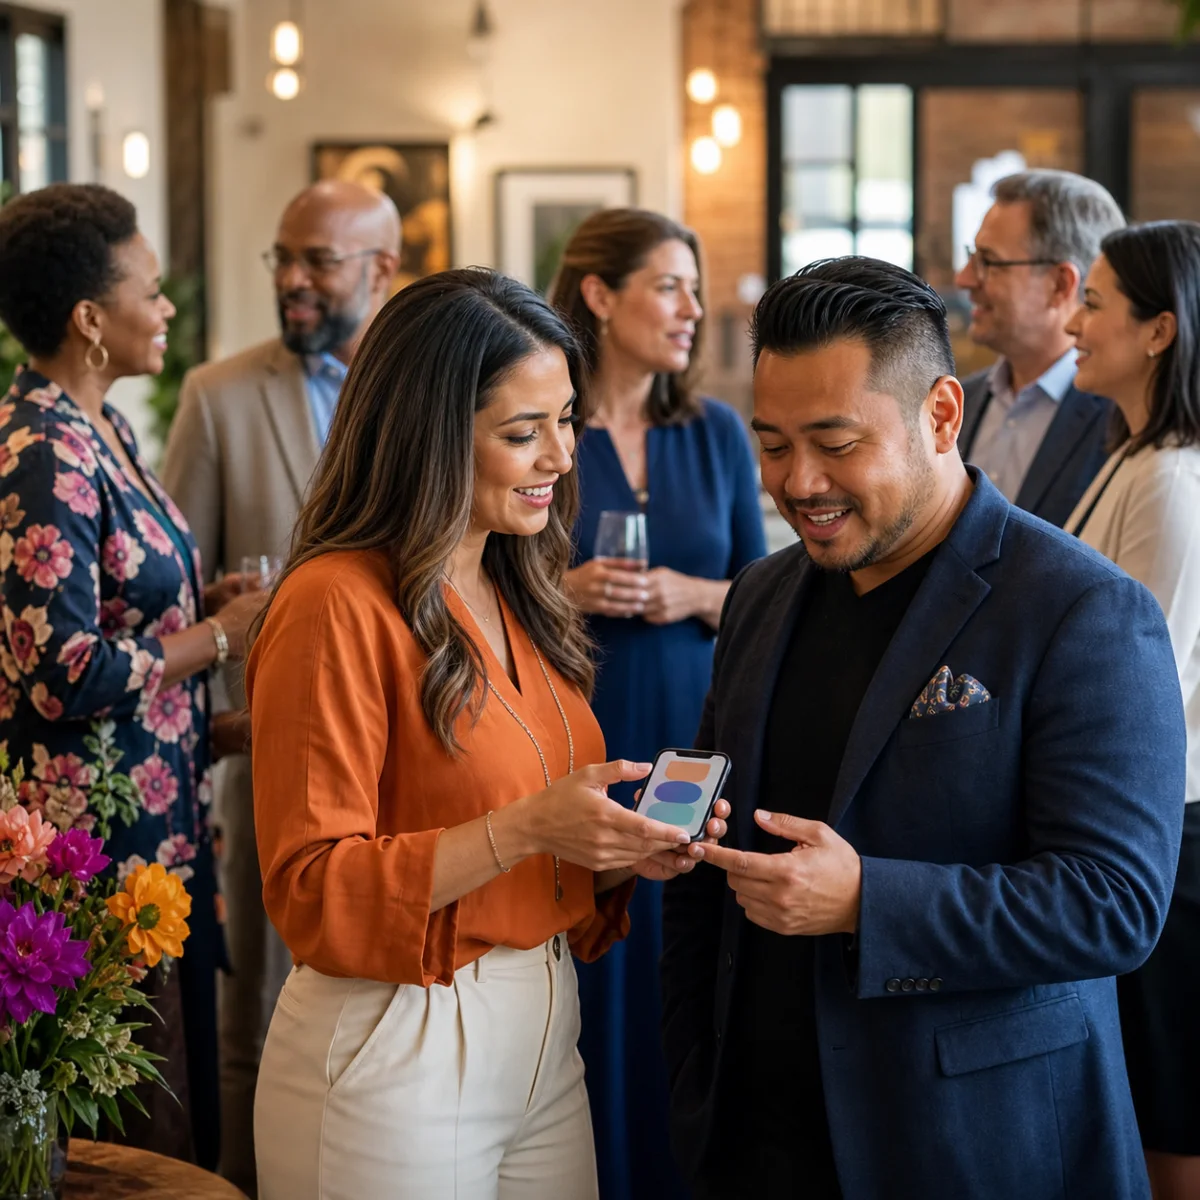
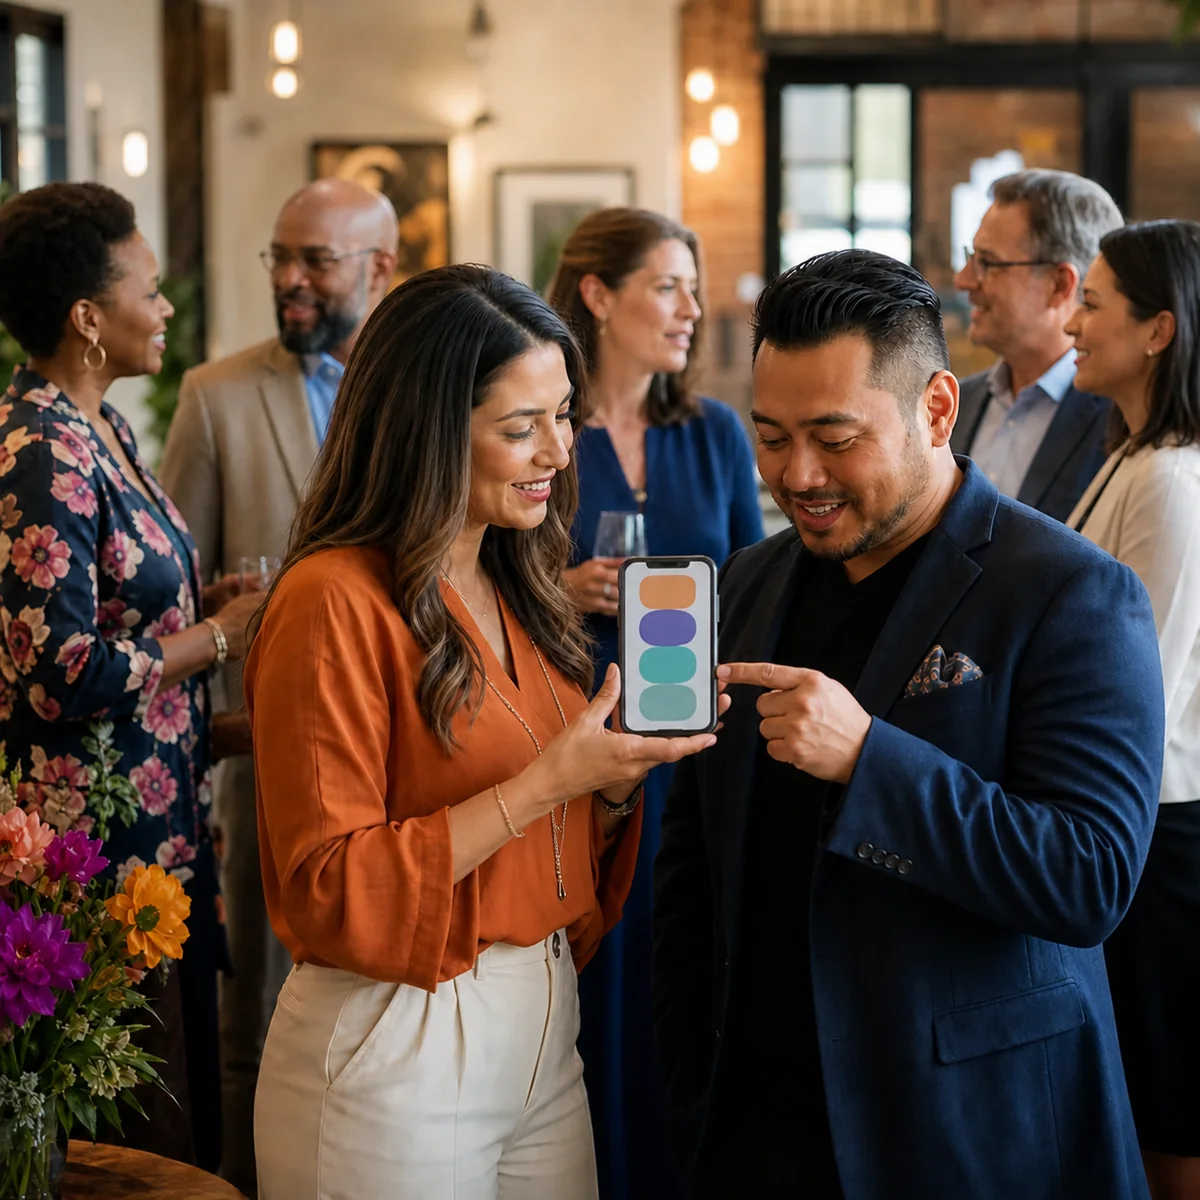
Fix PTBN cover interaction

diff --git a/design-qa.md b/design-qa.md
@@ -76,4 +76,14 @@ After the in-app Browser outage was established, Chrome was authorized as the fa
 - Responsive and accessibility checks: both viewports reported `documentElement.scrollWidth === innerWidth`; the hero SVG exposes the updated label; browser diagnostics contained no warnings or errors for the implementation origin.
 - Verification: `npm ci`, `npm run build`, and `git diff --check` passed. No actionable P0, P1, or P2 findings remain.
 
+## 2026-08-25 PrimeTime Business Network cover correction
+
+- User-reported issue: the original card crop placed the phone awkwardly near the lower edge and did not make the two foreground eye lines read as one shared interaction.
+- Image correction: built-in ImageGen regenerated the foreground phone exchange while preserving the professional networking event, people, clothing, warm editorial lighting, softly defocused attendees, floral detail, square framing, and non-readable abstract screen. A focused second pass moved the complete phone and connected hands higher into the center crop band.
+- Final asset: `public/images/projects/ptbn.webp`, optimized to `1200×1200` WebP at `122,872` bytes.
+- Evidence directory: `/Users/yo.livy/.codex/visualizations/2026/08/25/01a0385a-93ee-7143-bfd1-81514d0b7b13/eugene-portfolio-qa-evidence/ptbn-cover-fix/`.
+- Combined comparisons: `comparison-card-desktop.jpg` and `comparison-card-mobile.jpg` use matched source/implementation viewports and scroll positions. The revised crop keeps the complete upright phone between the two people, gives both faces a clear downward eye line to the same screen, and preserves the existing card dimensions, border, rotation, typography, copy, CTA, grid spacing, and adjacent covers.
+- Detail-page and responsive checks: `/projects/ptbn/` loads the complete `1200×1200` image and existing descriptive alt text. Desktop and `390×844` mobile checks reported `documentElement.scrollWidth === innerWidth`, and browser diagnostics contained no warnings or errors for the implementation origin.
+- Verification: `npm ci`, `npm run build`, and `git diff --check` passed. No actionable P0, P1, or P2 findings remain.
+
 final result: passed
